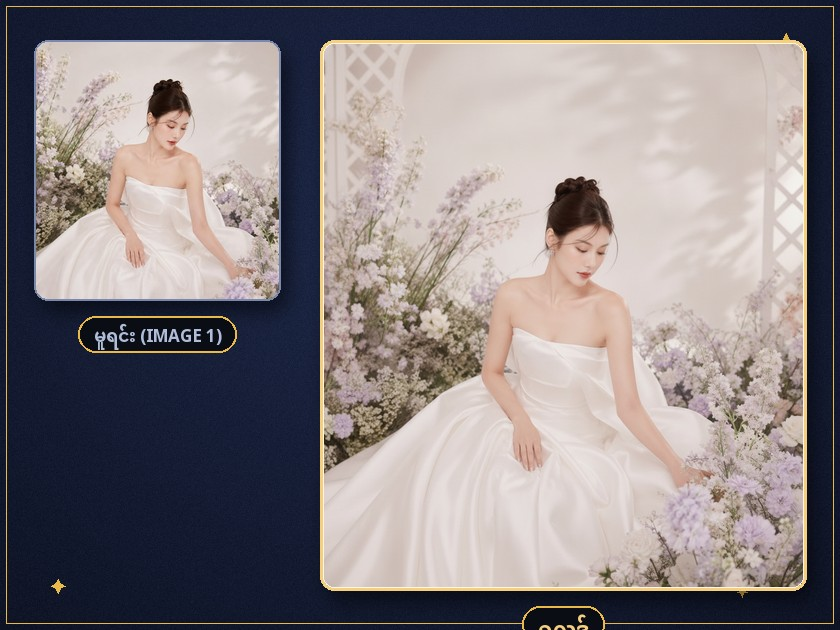
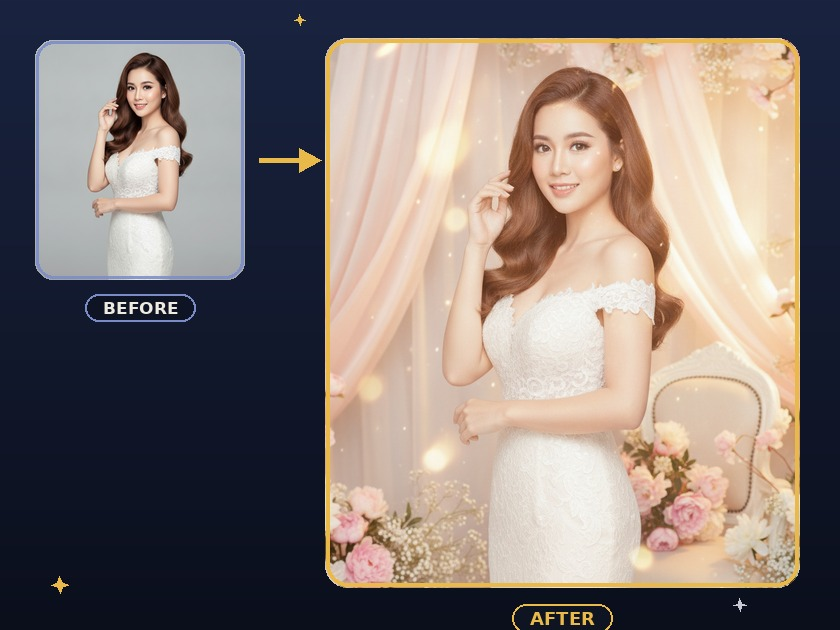
v4.20.14-15: refresh pr-roMkCopy + pr-scnVietnam thumbnails (#123)
* v4.7.2: fix stale-version banner falsely firing on any version mismatch

The update-available toast compared version.json to APP_VER with !== instead
of a real newer-than check, so a stale/CDN-cached version.json serving an
OLDER value (observed live: a "3.8.0" banner while already on v4.7.1) wrongly
told users a new build had shipped. Added a semver-style verNewer() compare
so the toast only fires when the fetched version is genuinely newer.

Discovered from a user screenshot of the live Setup page while confirming
Gemini/RunningHub/OpenAI key verification all work end-to-end.

* v4.8.0: rebuild RunningHub Enterprise on the real Standard Model API

The RunningHub integration was built against a guessed API shape
(webappId + nodeInfoList, apiKey in the body) that turned out not to match
what Enterprise-Shared keys actually use. Working with a real key against
RunningHub's live docs and its published model-registry.public.json, the
actual API is the "Standard Model API" (openapi/v2): a fixed per-model
endpoint path, Bearer-token auth, and a JSON body — no app/workflow
node-ID mapping needed at all.

Rewrote the client: rhV2Upload/Submit/Query/PollUntilDone/GenerateOne
replace the old upload/run/status/outputs functions. Nano Banana 2
(rhart-image-n-g31-flash/image-to-image) ships as a built-in default
apiPath, confirmed end-to-end against the live docs and registry, so it
now works the instant a key is saved — no per-model setup. Other models
[…]

diff --git a/docs/app/sw.js b/docs/app/sw.js
@@ -1,6 +1,6 @@
 /* HNK Web Studio service worker — cache-first for library assets,
    network-first for everything else (so app updates arrive immediately). */
-var CACHE = "hnk-web-studio-v4-20-13";
+var CACHE = "hnk-web-studio-v4-20-15";
 var OFFLINE_URL = "./index.html";
 
 self.addEventListener("install", function (e) {

diff --git a/docs/app/index.html b/docs/app/index.html
@@ -3941,7 +3941,7 @@ if ("serviceWorker" in navigator) {
 }
 
 /* version check: tell cached users when a new build ships */
-var APP_VER="4.20.13";
+var APP_VER="4.20.15";
 (function(){
   var vv="v"+APP_VER;
   var nv=document.getElementById("navVer"); if(nv) nv.textContent=vv;
